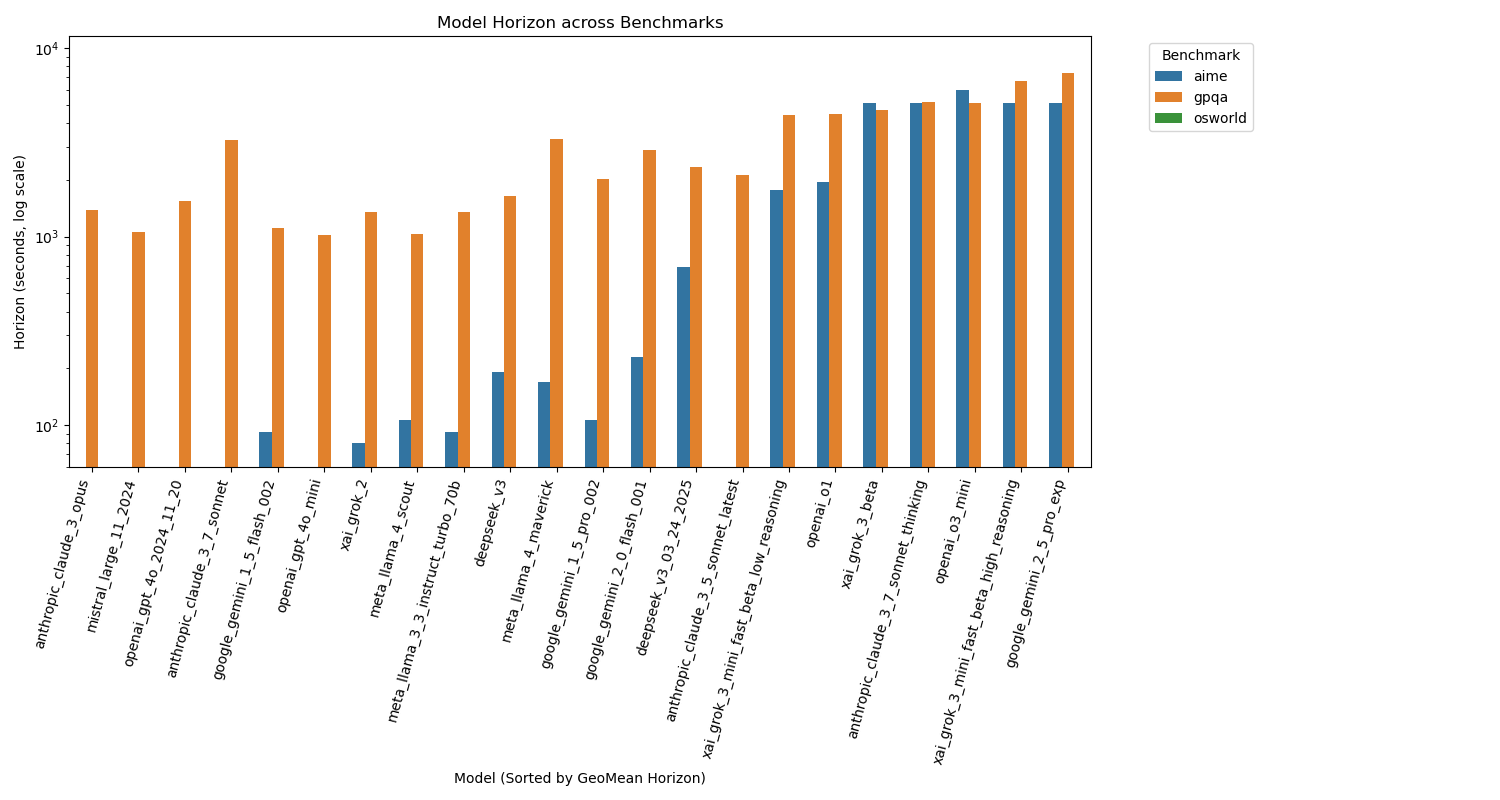
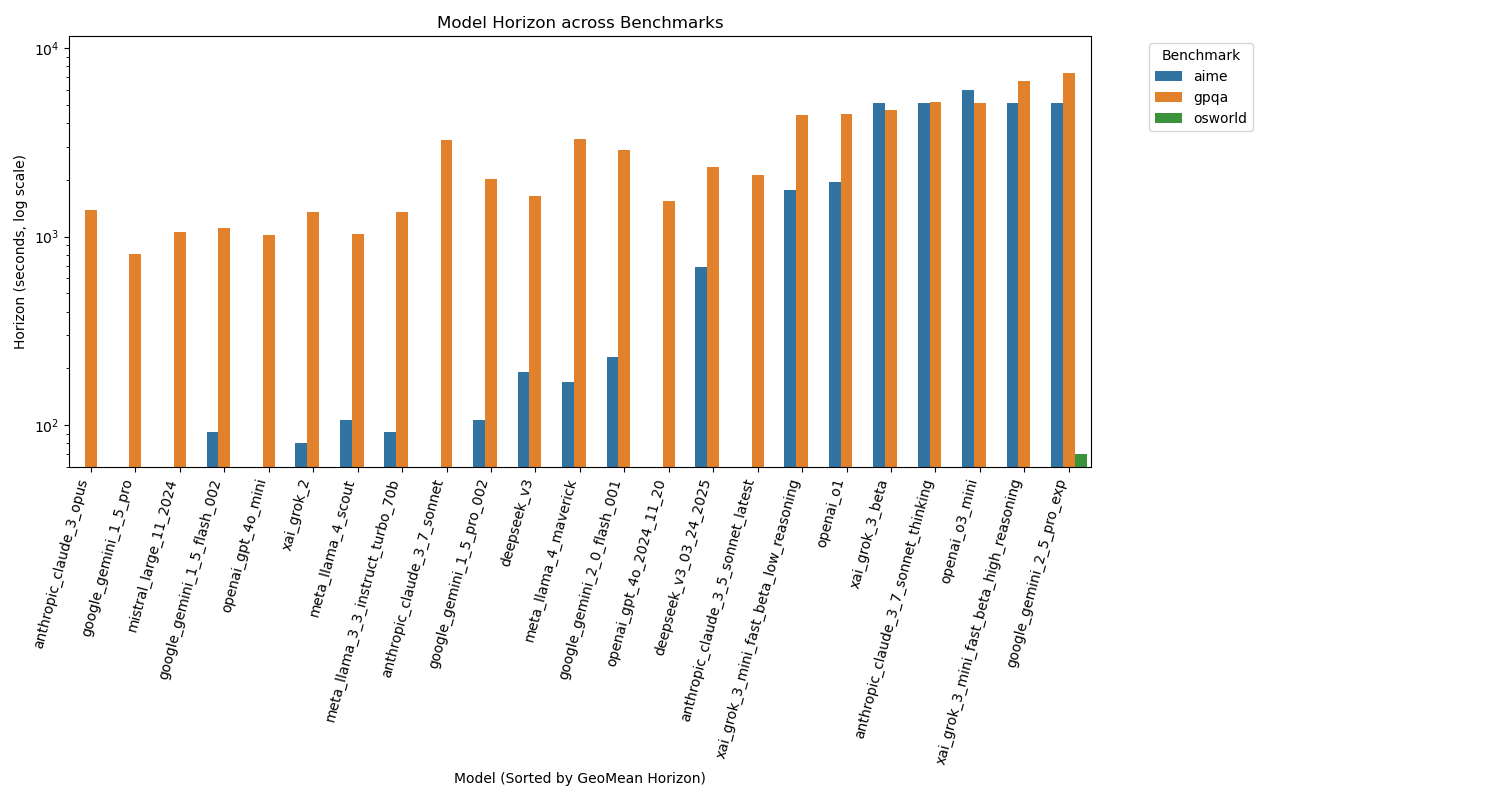
update data for osworld

diff --git a/plots.py b/plots.py
@@ -243,6 +243,8 @@ def plot_lines_over_time(df):
             x_line_date = mdates.num2date(x_line_num)
             y_line = 10**y_line_log
 
+            ax.plot(x_line_date, y_line, color=color, linestyle='--', linewidth=2, label=f"_{bench}_trend")
+
     ax.set_yscale('log')
 
     ax.set_xlabel("Model Release Date")
